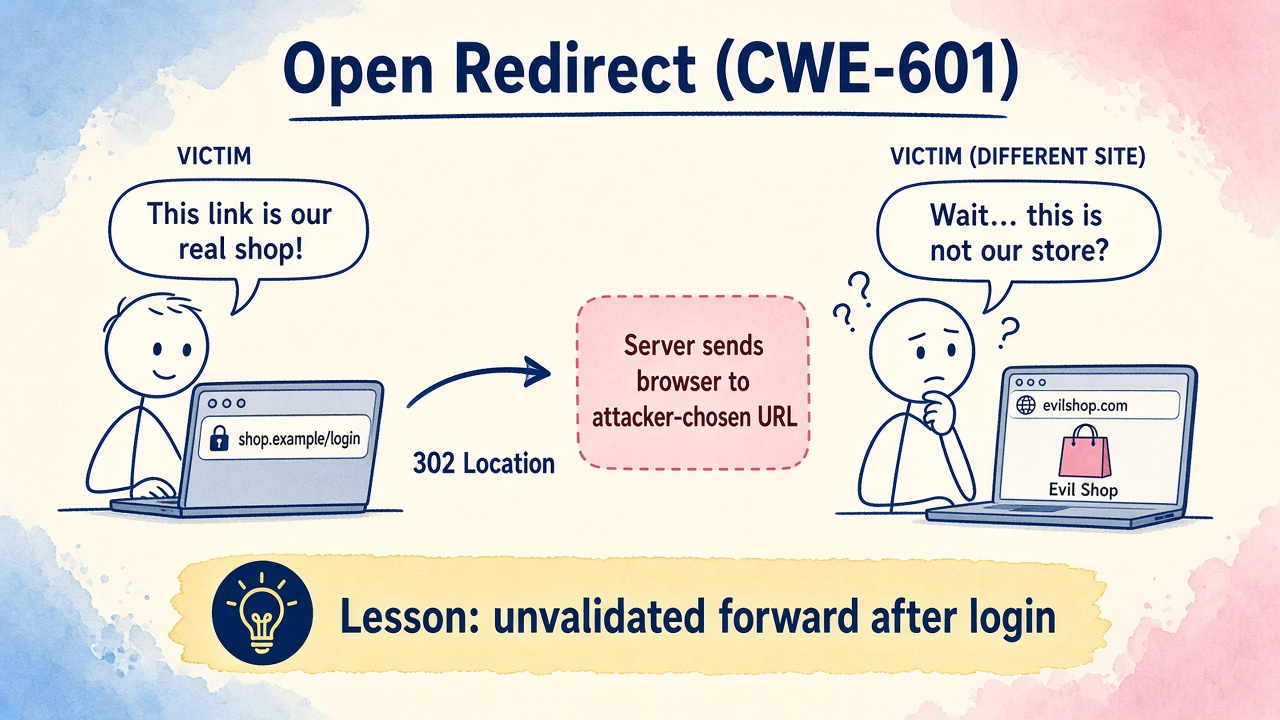
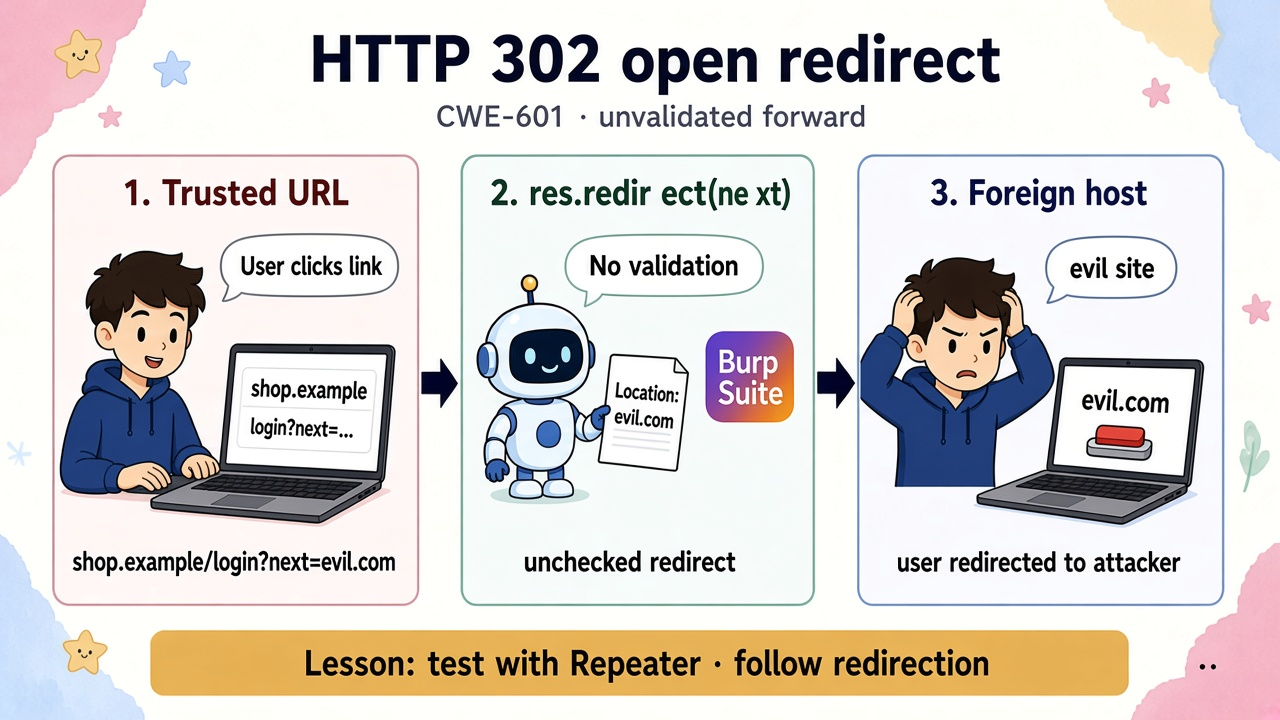
Redesign Open Redirect slides to match DoS story layout
Three-panel watercolor deck with hoodie user, server robot, and Lesson bar.

diff --git a/OpenRedirect/presentation/README.md b/OpenRedirect/presentation/README.md
@@ -1,6 +1,6 @@
 # Open redirect — presentation slides (PNG)
 
-Five **English** slides in **16:9 PNG** (same watercolor workshop look as File Upload): soft **watercolor corners**, **navy** titles, **pink** callouts, **yellow Lesson** bar, flat **characters** with **speech bubbles**.
+Five **English** slides in **16:9 PNG**, matching the **File Upload DoS story** layout: pastel **watercolor clouds + stars** in corners, **navy** title + gray CWE line, **three numbered panels** (pink / green / blue borders) with **blue hoodie** user and **white-blue robot** server, **speech bubbles**, **yellow Lesson** bar.
 
 General **CWE-601** teaching — not tied step-for-step to port **3006**, but matches the lab (`next`, `USE_SAFE_REDIRECT`).
 
